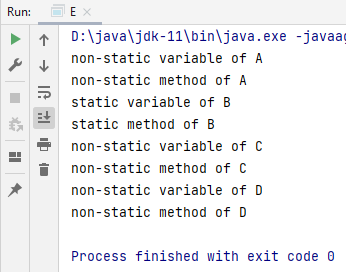
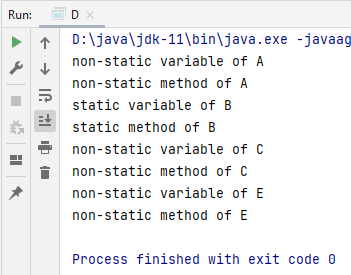
Lesson 10 - Work on mistakes

diff --git a/src/lesson10/p4/D.java b/src/lesson10/p4/D.java
@@ -1,9 +1,26 @@
 package lesson10.p4;
 
-public class D {
-    public String d = "non-static variable of D";
+import lesson10.p1.A;
+import lesson10.p1.p2.p3.C;
+import lesson10.p4.p5.E;
 
-    public String getD() {
-        return "non-static method of D";
+import static lesson10.p1.p2.B.*;
+
+public class D {
+    public static void main(String[] args) {
+        A a = new A();
+        System.out.println(a.a);
+        System.out.println(a.getA());
+
+        System.out.println(b);
+        System.out.println(getB());
+
+        C c = new C();
+        System.out.println(c.c);
+        System.out.println(c.getC());
+
+        E e = new E();
+        System.out.println(e.e);
+        System.out.println(e.getE());
     }
 }

diff --git a/src/lesson10/p4/p5/E.java b/src/lesson10/p4/p5/E.java
@@ -1,26 +1,9 @@
 package lesson10.p4.p5;
 
-import lesson10.p1.*;
-import lesson10.p1.p2.p3.C;
-import lesson10.p4.D;
-
-import static lesson10.p1.p2.B.*;
-
 public class E {
-    public static void main(String[] args) {
-        A a = new A();
-        System.out.println(a.a);
-        System.out.println(a.getA());
+    public String e = "non-static variable of E";
 
-        System.out.println(b);
-        System.out.println(getB());
-
-        C c = new C();
-        System.out.println(c.c);
-        System.out.println(c.getC());
-
-        D d = new D();
-        System.out.println(d.d);
-        System.out.println(d.getD());
+    public String getE() {
+        return "non-static method of E";
     }
 }
